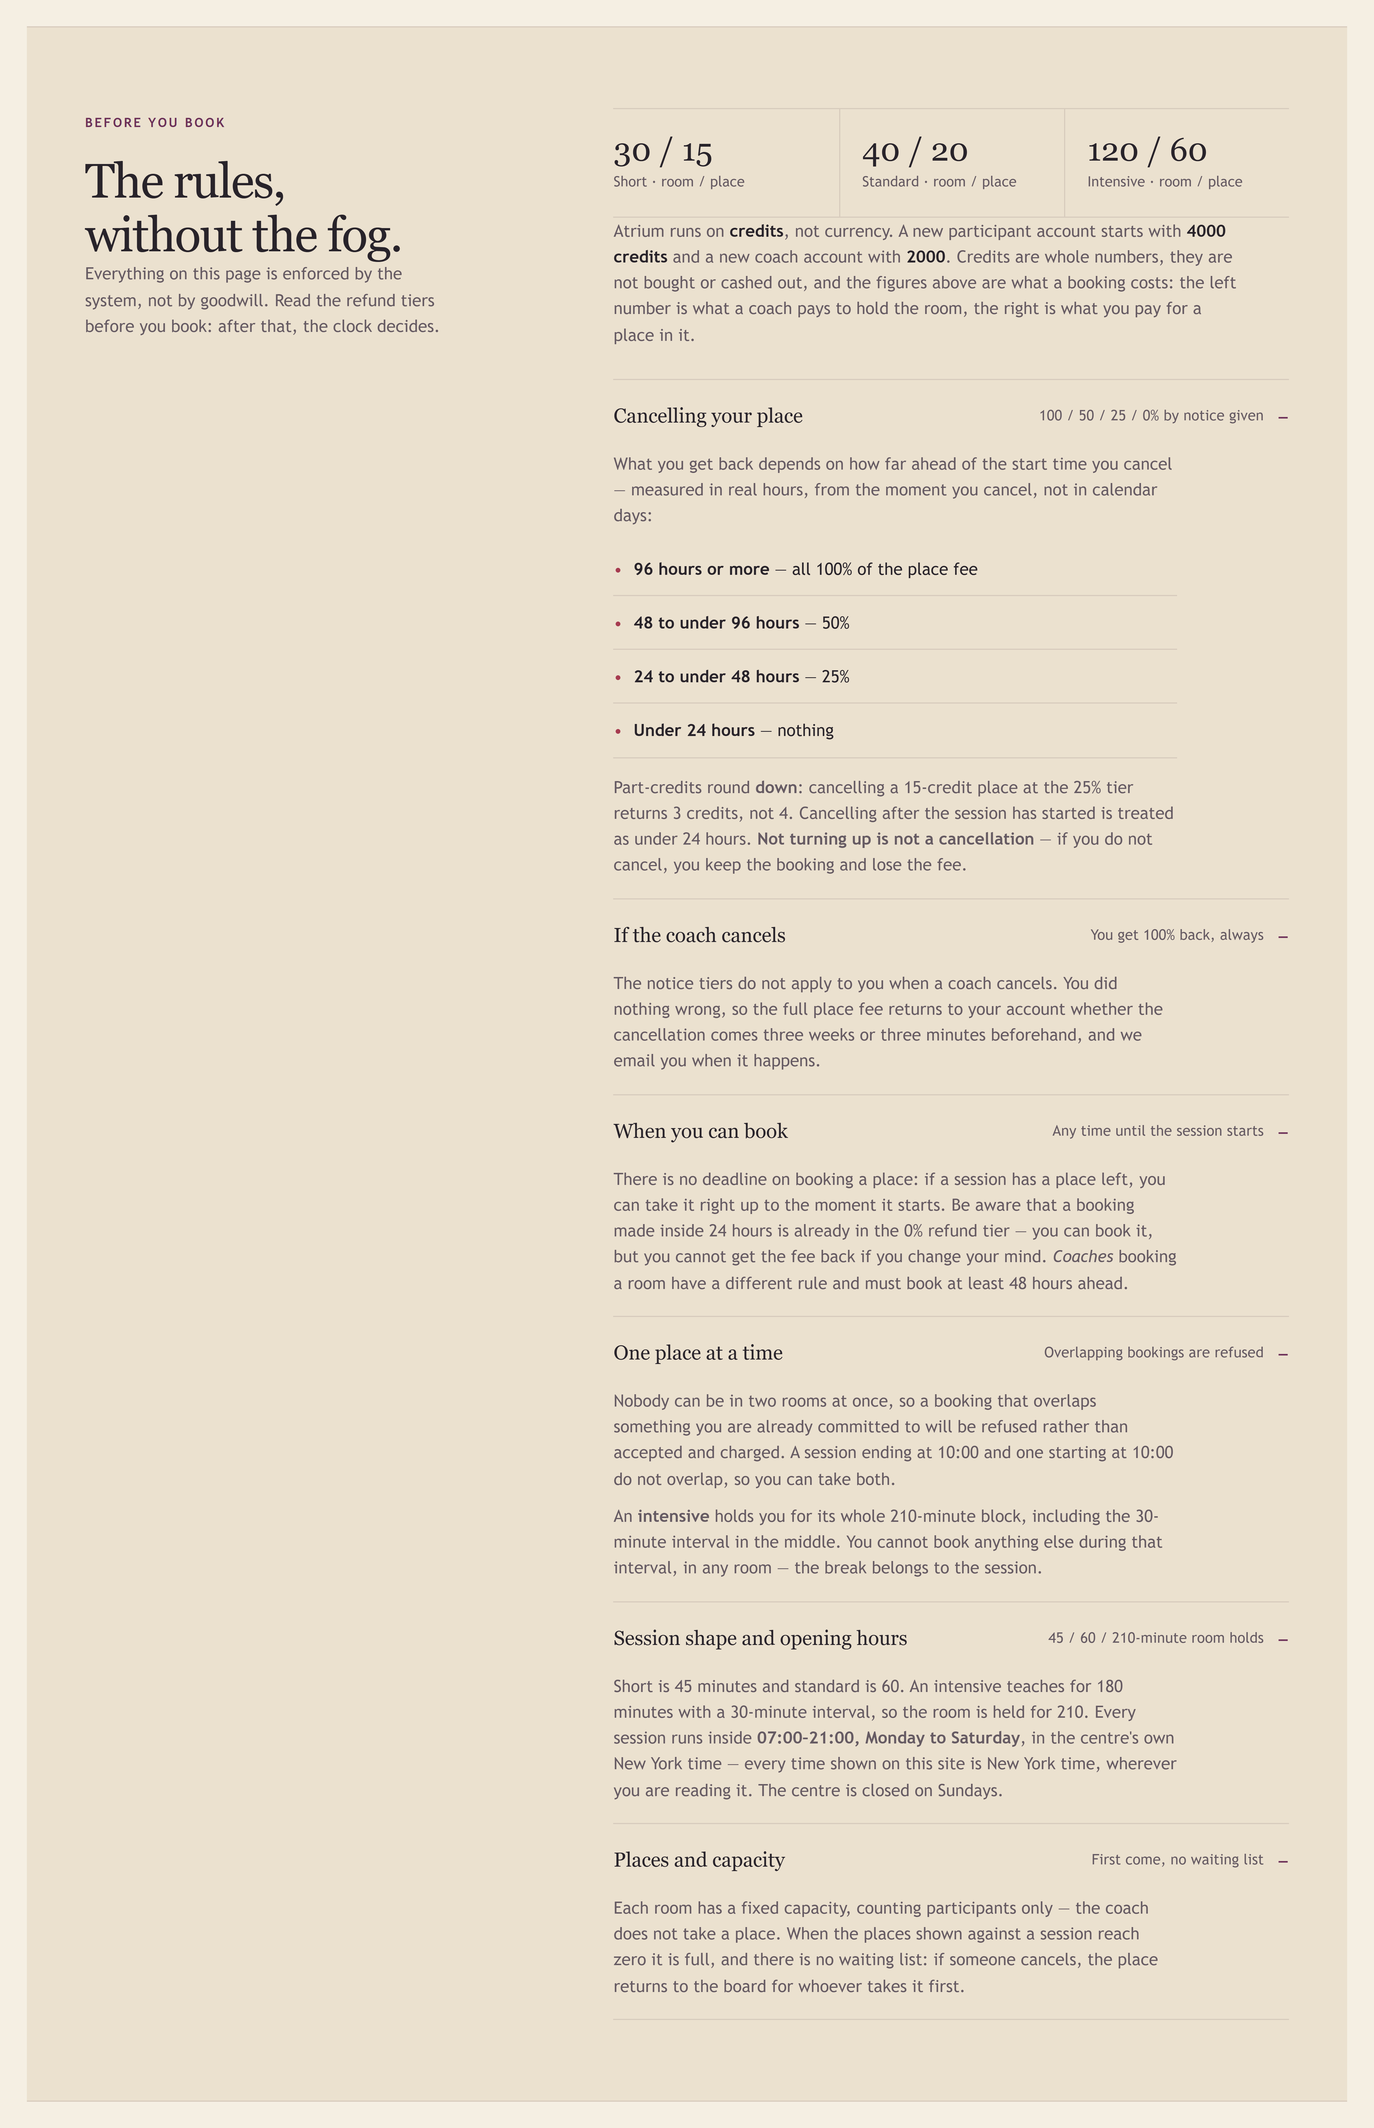
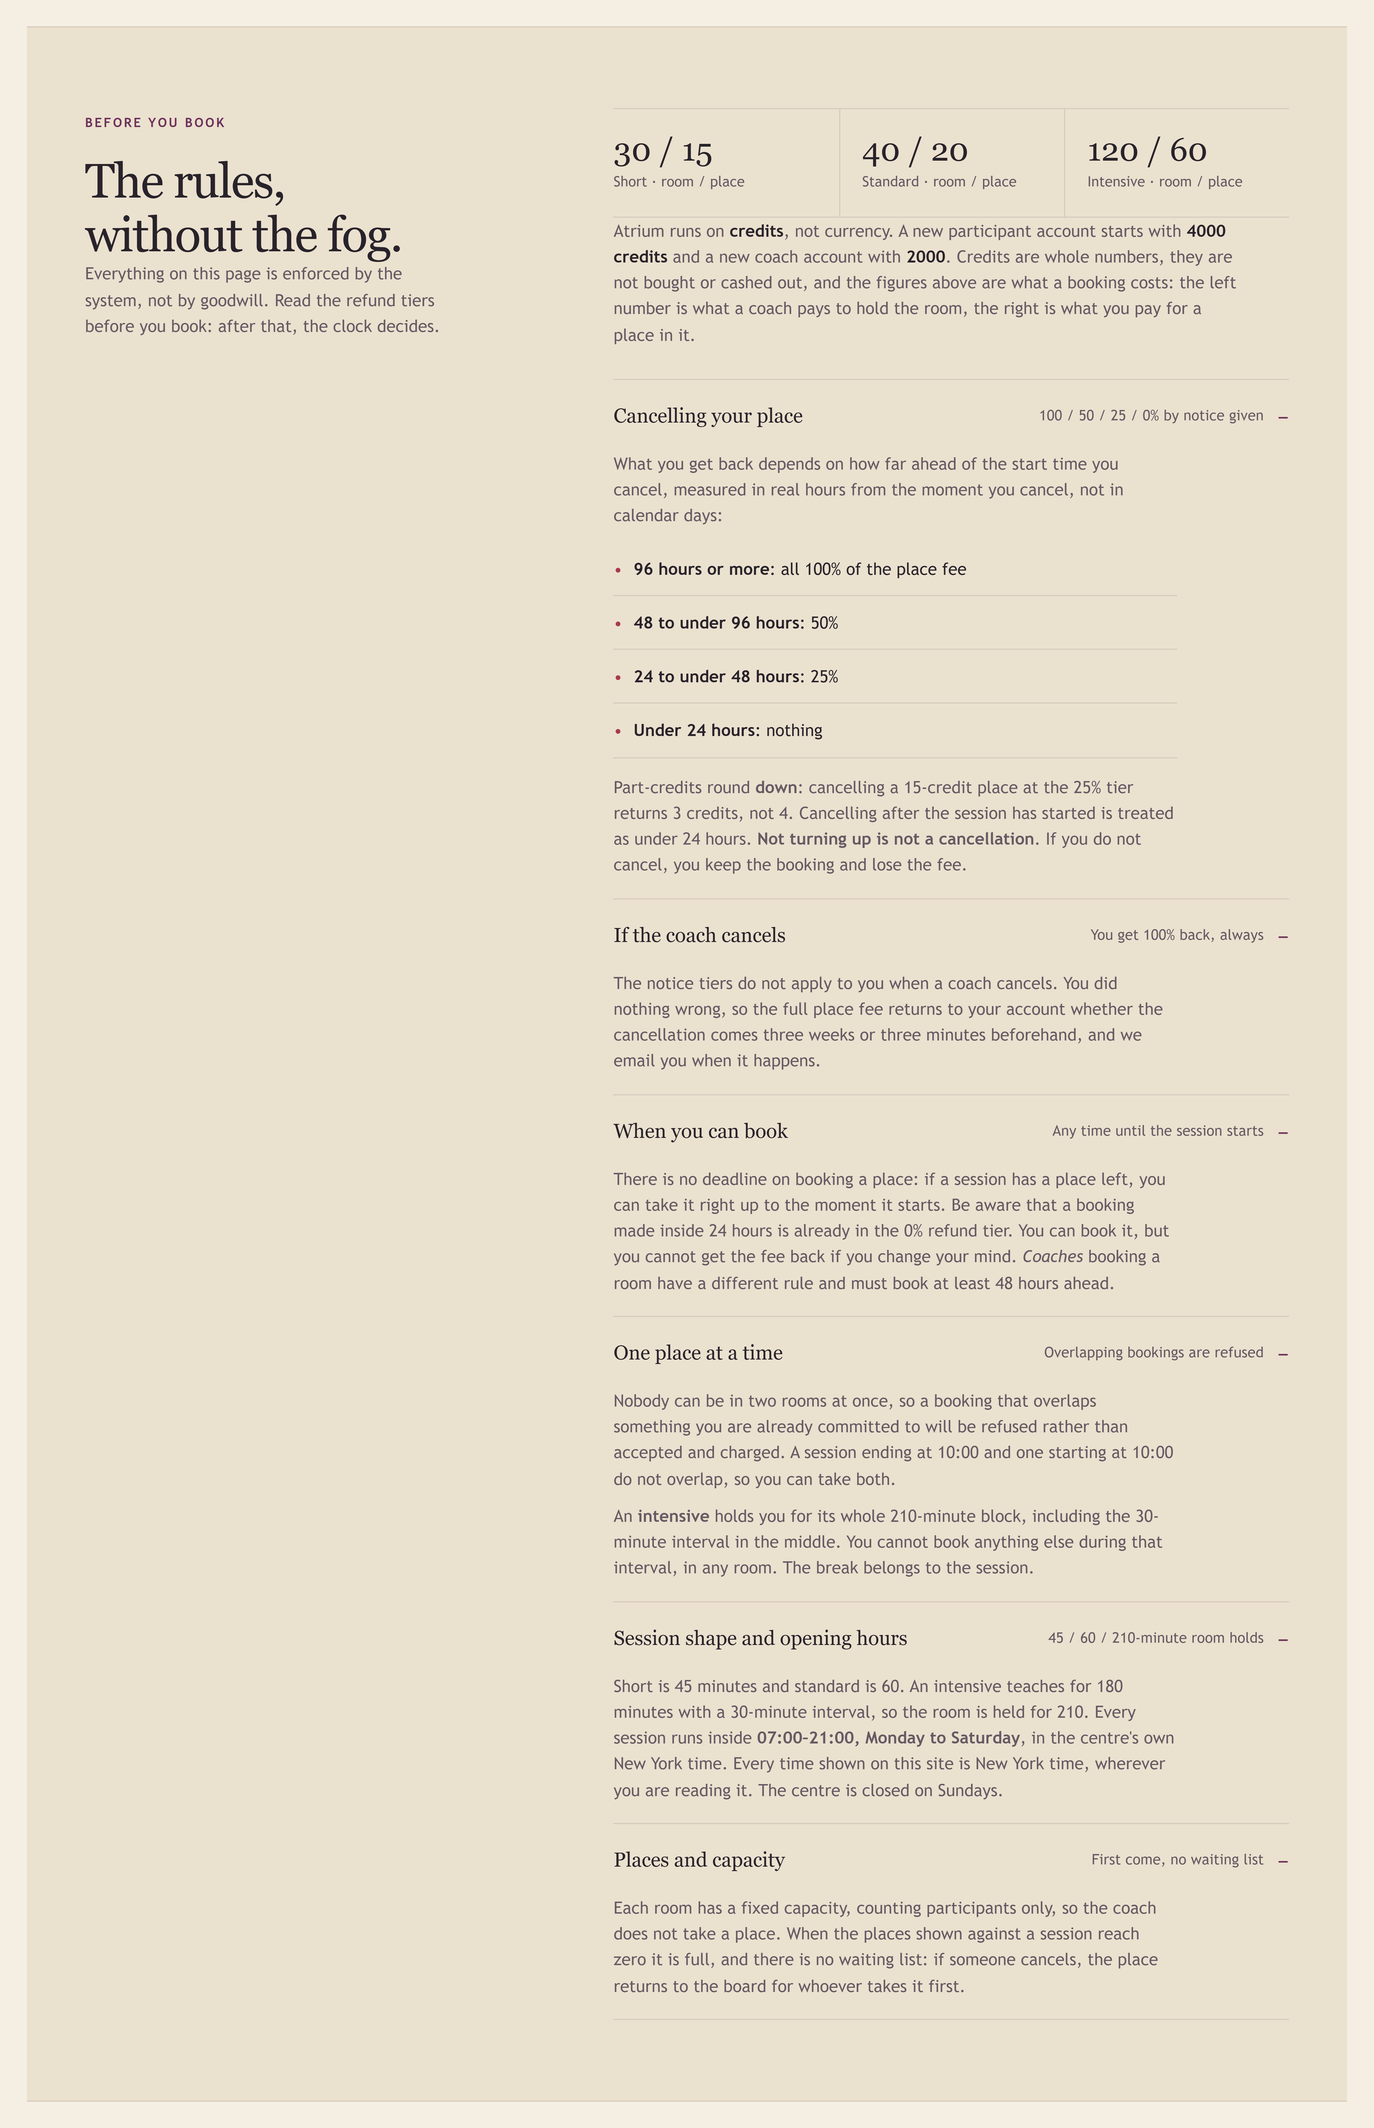
Polish copy and UI text across project
Minor editorial and UX text changes across docs, API and web UI: punctuation and wording clarifications in README.

diff --git a/web/app/page.tsx b/web/app/page.tsx
@@ -85,18 +85,18 @@ export default async function Home() {
               <details open>
                 <summary><strong>Cancelling your place</strong><span>100 / 50 / 25 / 0% by notice given</span></summary>
                 <p>
-                  What you get back depends on how far ahead of the start time you cancel — measured in real hours, from the moment you
+                  What you get back depends on how far ahead of the start time you cancel, measured in real hours from the moment you
                   cancel, not in calendar days:
                 </p>
                 <ul className="rule-list">
-                  <li><strong>96 hours or more</strong> — all 100% of the place fee</li>
-                  <li><strong>48 to under 96 hours</strong> — 50%</li>
-                  <li><strong>24 to under 48 hours</strong> — 25%</li>
-                  <li><strong>Under 24 hours</strong> — nothing</li>
+                  <li><strong>96 hours or more</strong>: all 100% of the place fee</li>
+                  <li><strong>48 to under 96 hours</strong>: 50%</li>
+                  <li><strong>24 to under 48 hours</strong>: 25%</li>
+                  <li><strong>Under 24 hours</strong>: nothing</li>
                 </ul>
                 <p>
                   Part-credits round <strong>down</strong>: cancelling a 15-credit place at the 25% tier returns 3 credits, not 4. Cancelling
-                  after the session has started is treated as under 24 hours. <strong>Not turning up is not a cancellation</strong> — if you
+                  after the session has started is treated as under 24 hours. <strong>Not turning up is not a cancellation</strong>. If you
                   do not cancel, you keep the booking and lose the fee.
                 </p>
               </details>
@@ -113,7 +113,7 @@ export default async function Home() {
                 <summary><strong>When you can book</strong><span>Any time until the session starts</span></summary>
                 <p>
                   There is no deadline on booking a place: if a session has a place left, you can take it right up to the moment it starts.
-                  Be aware that a booking made inside 24 hours is already in the 0% refund tier — you can book it, but you cannot get the
+                  Be aware that a booking made inside 24 hours is already in the 0% refund tier. You can book it, but you cannot get the
                   fee back if you change your mind. <em>Coaches</em> booking a room have a different rule and must book at least 48 hours
                   ahead.
                 </p>
@@ -127,7 +127,7 @@ export default async function Home() {
                 </p>
                 <p>
                   An <strong>intensive</strong> holds you for its whole 210-minute block, including the 30-minute interval in the middle. You
-                  cannot book anything else during that interval, in any room — the break belongs to the session.
+                  cannot book anything else during that interval, in any room. The break belongs to the session.
                 </p>
               </details>
 
@@ -135,15 +135,15 @@ export default async function Home() {
                 <summary><strong>Session shape and opening hours</strong><span>45 / 60 / 210-minute room holds</span></summary>
                 <p>
                   Short is 45 minutes and standard is 60. An intensive teaches for 180 minutes with a 30-minute interval, so the room is held
-                  for 210. Every session runs inside <strong>07:00–21:00, Monday to Saturday</strong>, in the centre's own New York time —
-                  every time shown on this site is New York time, wherever you are reading it. The centre is closed on Sundays.
+                  for 210. Every session runs inside <strong>07:00–21:00, Monday to Saturday</strong>, in the centre's own New York time.
+                  Every time shown on this site is New York time, wherever you are reading it. The centre is closed on Sundays.
                 </p>
               </details>
 
               <details>
                 <summary><strong>Places and capacity</strong><span>First come, no waiting list</span></summary>
                 <p>
-                  Each room has a fixed capacity, counting participants only — the coach does not take a place. When the places shown against
+                  Each room has a fixed capacity, counting participants only, so the coach does not take a place. When the places shown against
                   a session reach zero it is full, and there is no waiting list: if someone cancels, the place returns to the board for
                   whoever takes it first.
                 </p>

diff --git a/api/src/routes/assistant.ts b/api/src/routes/assistant.ts
@@ -23,7 +23,7 @@ function moveTarget(message: string) {
 /**
  * Disciplines come from the data, not from a list in this file.
  *
- * They were hardcoded, and the list was missing `career` — 37 sessions that no
+ * They were hardcoded, and the list was missing `career`, 37 sessions that no
  * discipline filter could ever reach. Reading them from the database means a
  * discipline the centre adds tomorrow is searchable today.
  */
@@ -51,7 +51,7 @@ async function disciplineFrom(message: string): Promise<string | null> {
 }
 
 /**
- * The catalogue tool. Anyone may call it, signed in or not — nothing it returns
+ * The catalogue tool. Anyone may call it, signed in or not, because nothing it returns
  * is anyone's private information. Every other tool in this file narrows by the
  * caller before it reads, which is why filtering never has to happen afterwards.
  */
@@ -236,13 +236,13 @@ async function replyForUser(message: string, user: CurrentUser | null, email?: s
     const lines = attendees.map((row) => {
       const history = `${row.attended_with_you} attendance(s) and ${row.cancelled_on_you} cancellation(s) with you`;
       const state = row.status === 'cancelled' ? 'cancelled' : row.attended ? 'attended' : 'booked';
-      return `${row.full_name} — ${state}, ${history}`;
+      return `${row.full_name}: ${state}, ${history}`;
     });
     return { answer: `Session ${sessionId} has ${attendees.length} recorded enrolment(s):\n${lines.join('\n')}` };
   }
 
   // An administrator sees everything, so their tools are the same shape as the
-  // others with the ownership predicate removed — not a wider prompt.
+  // others with the ownership predicate removed, not a wider prompt.
   if (user?.kind === 'admin') {
     if (sessionId && /(attend|who|detail|enrol|enrol|roster)/.test(lower)) {
       const rows = await query<any>(
@@ -265,7 +265,7 @@ async function replyForUser(message: string, user: CurrentUser | null, email?: s
       if (!people.length) return { answer: `${header} Nobody is enrolled.` };
       const lines = people.map(
         (row) =>
-          `${row.full_name} <${row.email}> — ${row.booking_status}` +
+          `${row.full_name} <${row.email}>: ${row.booking_status}` +
           `${row.attended ? ', attended' : ''}, charged ${row.credits_charged}` +
           `${Number(row.credits_refunded) > 0 ? `, refunded ${row.credits_refunded}` : ''}`
       );
@@ -289,7 +289,7 @@ async function replyForUser(message: string, user: CurrentUser | null, email?: s
         answer: rows
           .map(
             (row) =>
-              `${row.full_name} <${row.email}> — ${row.kind}${row.active ? '' : ', inactive'}, ` +
+              `${row.full_name} <${row.email}>: ${row.kind}${row.active ? '' : ', inactive'}, ` +
               `${row.credits} credits, ${row.active_bookings} active booking(s), ${row.sessions_taught} session(s) taught`
           )
           .join('\n')

diff --git a/api/src/scheduler.ts b/api/src/scheduler.ts
@@ -10,7 +10,7 @@ import { completeFinishedSessions } from './services/sessions';
  *
  * Two things have to be right for that to hold across a daylight-saving change.
  * The cron expression is registered with the centre timezone, so the job fires
- * at local midnight rather than at a fixed UTC hour — a UTC-anchored job would
+ * at local midnight rather than at a fixed UTC hour, because a UTC-anchored job would
  * start firing at 23:00 local after 1 November 2026. And the window is built
  * from one local midnight to the *next* local midnight rather than by adding 24
  * hours, because the local day is 25 hours long on 1 November and 23 hours long
@@ -50,14 +50,14 @@ export async function sendDailyDigests(now = new Date()): Promise<void> {
 
     await sendMail({
       to: coach.email,
-      subject: `Your Atrium day — ${window.date}`,
+      subject: `Your Atrium day: ${window.date}`,
       text:
         `Sessions for ${window.date} (${CENTRE_TIMEZONE}):\n\n` +
         sessions
           .map(
             (session) =>
               `${centreClock(session.starts_at)}–${centreClock(session.ends_at)}  ${session.discipline} in ${session.room_name}` +
-              (session.teaching ? ` — teaching, ${session.attendees} attendee(s)` : ' — you are attending')
+              (session.teaching ? ` (teaching, ${session.attendees} attendee(s))` : ' (attending)')
           )
           .join('\n')
     });
@@ -82,7 +82,7 @@ export async function sendDailyDigests(now = new Date()): Promise<void> {
   for (const admin of admins) {
     await sendMail({
       to: admin.email,
-      subject: `Atrium daily digest — ${window.date}`,
+      subject: `Atrium daily digest: ${window.date}`,
       text: digest.length
         ? `${digest.length} session(s) and ${totalAttendances} attendance(s) for ${window.date} (${CENTRE_TIMEZONE}):\n\n` +
           digest

diff --git a/api/src/notifications.ts b/api/src/notifications.ts
@@ -27,7 +27,7 @@ function transport(): nodemailer.Transporter {
  * problems are logged rather than thrown.
  *
  * When SMTP is configured but unreachable the failure is logged loudly, because
- * the alternative — silence — looks exactly like a system with no email at all.
+ * the alternative, silence, looks exactly like a system with no email at all.
  */
 export async function sendMail(mail: Mail): Promise<void> {
   const mode = process.env.MAIL_TRANSPORT || 'console';
@@ -102,7 +102,7 @@ export async function notifyBookingCancelled(sessionId: number, personId: number
 }
 
 /**
- * A cancelled session notifies everyone who held a place — participants and any
+ * A cancelled session notifies everyone who held a place: participants and any
  * coach who was attending it.
  *
  * The affected people are passed in by the caller rather than inferred from a
@@ -128,7 +128,7 @@ export async function notifySessionCancelled(sessionId: number, personIds: numbe
       subject: `Cancelled: ${row.discipline} on ${centreDateTime(row.starts_at)}`,
       text:
         `Your ${row.discipline} session on ${centreDateTime(row.starts_at)} in ${row.room_name} was cancelled by the coach.\n` +
-        `${row.credits_refunded} credits have been returned to your account in full — the notice tiers do not apply when a coach cancels.`
+        `${row.credits_refunded} credits have been returned to your account in full. The notice tiers do not apply when a coach cancels.`
     });
   }
 }

diff --git a/api/src/routes/calendar.ts b/api/src/routes/calendar.ts
@@ -23,11 +23,11 @@ type CalendarRow = {
 /**
  * Section 7 gives each role a different calendar:
  *
- *   participant — only the sessions they hold a place in.
- *   coach       — their own sessions and the ones they attend in full, plus
+ *   participant: only the sessions they hold a place in.
+ *   coach:       their own sessions and the ones they attend in full, plus
  *                 every other active session as an opaque busy period so they
  *                 can plan around the room. Never who is attending those.
- *   admin       — everything.
+ *   admin:       everything.
  *
  * The narrowing happens in SQL and in the projection below, not in the client.
  * A busy period is built by dropping fields, so a field that is not selected
@@ -78,7 +78,7 @@ router.get('/', requireSession, async (req, res) => {
     const result = sessions.map((session) => {
       if (session.relation === 'other') {
         // Time and room only. Discipline, coach identity and headcount are all
-        // withheld — the caller learns that the room is unavailable, nothing more.
+        // withheld, so the caller learns that the room is unavailable, nothing more.
         return {
           id: session.id,
           starts_at: session.starts_at,

diff --git a/web/app/globals.css b/web/app/globals.css
@@ -314,7 +314,7 @@ input, select, textarea { min-height: 44px; width: 100%; border: 1px solid var(-
   .header-inner, .page-shell, .dashboard-shell { width: min(100% - 24px, 1180px); }
   /* Three columns do not fit a phone: the fixed date column starved the middle
      one to a few characters and wrapped the discipline down the row. Stack
-     instead — when, what, then availability. */
+     instead: when, what, then availability. */
   .assistant-session { grid-template-columns: minmax(0, 1fr) auto; gap: 2px 12px; padding: 12px 0; }
   .assistant-session-when { grid-column: 1 / -1; }
   .assistant-session-what { grid-column: 1; }

diff --git a/web/app/dashboard/calendar/page.tsx b/web/app/dashboard/calendar/page.tsx
@@ -98,7 +98,7 @@ export default function CalendarPage() {
         <div>
           <span className="section-mark">Centre-local calendar</span>
           <h1>Plan the week.</h1>
-          <p>Times are shown in {timezoneLabel}. A busy period shows that a room is taken and nothing else — never the discipline, the coach or who is attending.</p>
+          <p>Times are shown in {timezoneLabel}. A busy period shows that a room is taken and nothing else, never the discipline, the coach or who is attending.</p>
         </div>
         <Link className="button button-soft" href="/dashboard">Back to dashboard</Link>
       </div>

diff --git a/web/app/layout.tsx b/web/app/layout.tsx
@@ -18,7 +18,7 @@ export default function RootLayout({ children }: { children: React.ReactNode }) 
     <html lang="en">
       {/*
         Browser extensions write their own attributes onto <body> before React
-        hydrates — ColorZilla adds cz-shortcut-listen, password managers and
+        hydrates. ColorZilla adds cz-shortcut-listen, password managers and
         grammar checkers do similar. The server sends a bare <body>, so React
         reports the difference as a hydration mismatch that is not ours and
         cannot be fixed from here.

diff --git a/web/app/components/AssistantPanel.tsx b/web/app/components/AssistantPanel.tsx
@@ -53,7 +53,7 @@ export default function AssistantPanel() {
    * Keeps the newest turn in view by scrolling the transcript box, not the page.
    *
    * This used to call scrollIntoView on a marker element, which scrolls every
-   * scrollable ancestor — including the document. Because the effect also runs
+   * scrollable ancestor, including the document. Because the effect also runs
    * on mount, simply loading the public page dragged the whole window down to
    * wherever the panel happened to sit.
    *

diff --git a/api/src/server.ts b/api/src/server.ts
@@ -1,8 +1,8 @@
 /**
  * Process entry point: opens the port and starts the scheduled jobs.
  *
- * Kept separate from `index.ts` so that importing the application — in a test,
- * or in a script — never has the side effect of binding a port or registering
+ * Kept separate from `index.ts` so that importing the application, whether in a test
+ * or in a script, never has the side effect of binding a port or registering
  * cron jobs.
  */
 import app from './index';

diff --git a/api/src/domain.ts b/api/src/domain.ts
@@ -49,7 +49,7 @@ export function centreDateParts(value: Date): { weekday: string; hour: number; m
 }
 
 /**
- * Every time shown to a human — email, digest, log line — goes through here.
+ * Every time shown to a human (email, digest, log line) goes through here.
  * `toLocaleString()` renders in whatever zone the server happens to run in,
  * which is not the zone the centre operates in and not the zone the reader
  * cares about.

diff --git a/api/test/fixtures.ts b/api/test/fixtures.ts
@@ -38,7 +38,7 @@ export async function databaseAvailable(): Promise<boolean> {
 export function dbIt(name: string, fn: () => Promise<void>): void {
   it(name, async (t) => {
     if (!(await databaseAvailable())) {
-      t.skip('no database reachable — set DATABASE_URL and run npm run migrate');
+      t.skip('no database reachable: set DATABASE_URL and run npm run migrate');
       return;
     }
     await fn();
